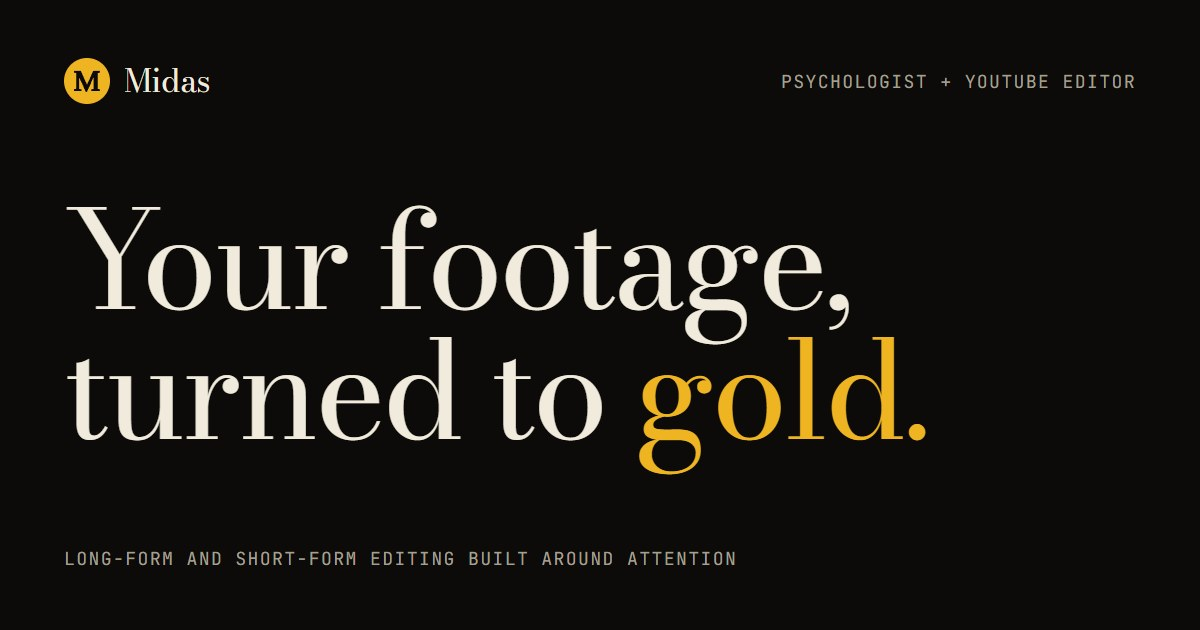
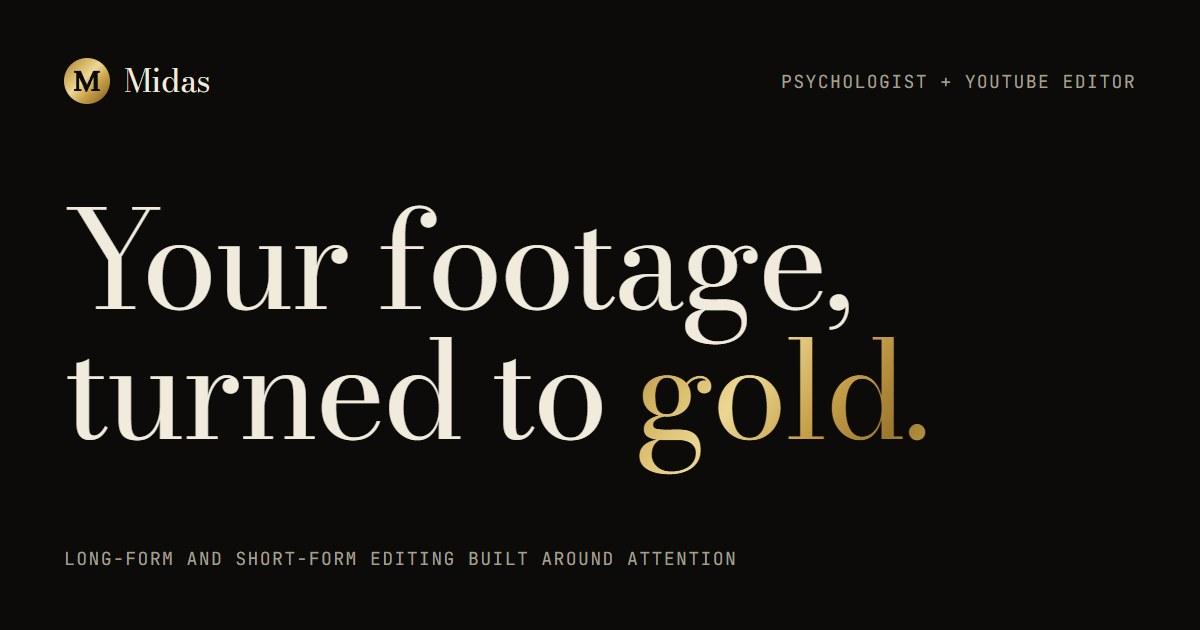
Troca o amarelo por ouro fosco com reflexo e iguala os títulos
Todos os títulos de seção usam o tamanho do título inicial. O Method fica
só com o gráfico e seus rótulos, saem Malcolm Crawford e IMALOSERONG da
lista de clientes, e o dourado passa a ter gradiente metálico.

Claude-Session: https://claude.ai/code/session_019113Mhn7Wb5Ht5tMyM37nv

Changed region(s): [[0.5242, 0.5127, 0.7708, 0.754], [0.0308, 0.0905, 0.0925, 0.181]]

diff --git a/src/styles/global.css b/src/styles/global.css
@@ -5,13 +5,18 @@
     --color-soot: #1a1815;
     --color-lead: #a5a096;
     --color-bone: #f1ebdd;
-    --color-gold: #eeb422;
+    --color-gold: #c9a24b;
     --color-gold-soft: #dcc07a;
     --color-gold-deep: #a88a48;
 
     --font-display: var(--font-midas-display);
     --font-body: var(--font-midas-body);
     --font-mono: var(--font-midas-mono);
+}
+
+/* Ouro fosco com reflexo: luz na diagonal e sombra no lado oposto */
+:root {
+    --gold-metal: linear-gradient(125deg, #a67c2e 0%, #d9bb6c 26%, #ecd793 40%, #c9a24b 60%, #9d772d 80%, #d2b261 100%);
 }
 
 @property --touch-radius {
@@ -55,8 +60,36 @@ body {
     line-height: 0.95;
 }
 
+/* Mesmo tamanho em todos os títulos de seção */
+.title {
+    font-size: 14vw;
+    text-wrap: balance;
+}
+
+@media (min-width: 768px) {
+    .title {
+        font-size: 10vw;
+    }
+}
+
+@media (min-width: 1024px) {
+    .title {
+        font-size: 5.8vw;
+    }
+}
+
 .gold-word {
     color: var(--color-gold);
+    background: var(--gold-metal);
+    -webkit-background-clip: text;
+    background-clip: text;
+    -webkit-text-fill-color: transparent;
+    /* Espaço para o gradiente alcançar as pernas do g e do y */
+    padding-bottom: 0.12em;
+}
+
+.gold-metal {
+    background: var(--gold-metal);
 }
 
 .eyebrow {
@@ -72,7 +105,7 @@ body {
     display: inline-block;
     padding: 0.9rem 1.5rem;
     font-weight: 600;
-    background: var(--color-gold);
+    background: var(--gold-metal);
     color: var(--color-ink);
     transition: background-color 0.2s, color 0.2s;
 }
@@ -182,10 +215,12 @@ body {
 
 #tc-fill {
     width: calc(var(--p) * 100%);
+    background: linear-gradient(to right, #a67c2e, #d9bb6c);
 }
 
 #tc-thumb {
     left: calc(var(--p) * 100%);
+    background: var(--gold-metal);
     transition: scale 0.12s;
 }
 
@@ -209,22 +244,34 @@ body {
     color: var(--color-gold);
 }
 
-/* Fim da página: folha de ouro fosca, sem o amarelo puro */
+/* Fim da página: folha de ouro fosca, com o mesmo reflexo diagonal */
 .gold-leaf {
     position: relative;
-    background:
-        radial-gradient(ellipse 70% 60% at 70% 100%, rgb(255 238 195 / 0.2), transparent),
-        linear-gradient(to bottom, var(--color-gold-deep), #c8aa66);
+    background: linear-gradient(to bottom, var(--color-gold-deep), #bd9d57);
 }
 
-.gold-leaf::before {
+.gold-leaf > * {
+    position: relative;
+    z-index: 1;
+}
+
+.gold-leaf::before,
+.gold-leaf::after {
     content: "";
     position: absolute;
     inset: 0;
+    pointer-events: none;
+    /* Some no topo para não marcar emenda com o degradê anterior */
+    mask-image: linear-gradient(to bottom, transparent, black 35%);
+}
+
+.gold-leaf::before {
+    background: linear-gradient(125deg, transparent 12%, rgb(255 236 180 / 0.34) 36%, transparent 58%, rgb(80 55 15 / 0.24) 80%, rgb(255 236 180 / 0.14) 100%);
+}
+
+.gold-leaf::after {
     background-image: url("../assets/ui/noise.webp");
     opacity: 0.06;
-    pointer-events: none;
-    mask-image: linear-gradient(to bottom, transparent, black 40%);
 }
 
 /* Curva de retenção desenhada conforme a rolagem */
@@ -233,7 +280,7 @@ body {
     stroke-dashoffset: calc(1 - var(--draw, 0));
 }
 
-/* No celular os rótulos ficariam ilegíveis; a lista abaixo explica cada ponto */
+/* No celular os rótulos ficariam ilegíveis; a legenda abaixo do gráfico os substitui */
 @media (max-width: 767px) {
     .curve-labels text {
         display: none;

diff --git a/src/data/site.ts b/src/data/site.ts
@@ -3,8 +3,6 @@ import ward from "../assets/clients/golden-roblox.jpg";
 import sirius from "../assets/clients/client-6.jpg";
 import golden from "../assets/clients/client-5.jpg";
 import muitoHumildee from "../assets/clients/client-2.jpg";
-import malcolm from "../assets/clients/client-3.jpg";
-import imaLoser from "../assets/clients/client-4.webp";
 
 export const contacts = [
   { title: "Email", value: "psique.fabricio@gmail.com", href: "mailto:psique.fabricio@gmail.com?subject=Video%20editing%20project" },
@@ -18,9 +16,4 @@ export const topClients = [
   { name: "Sirius Roblox", reach: "1.53M", unit: "subscribers", work: "Long-form", image: sirius, url: "https://www.youtube.com/@SiriusRobloxFunny" },
   { name: "@muitohumildee", reach: "1.51M", unit: "on Instagram", work: "Short-form", image: muitoHumildee, url: "https://www.instagram.com/muitohumildee/" },
   { name: "Golden Roblox", reach: "470K", unit: "subscribers", work: "Long-form", image: golden, url: "https://www.youtube.com/@GoldenRoblox0" },
-];
-
-export const otherClients = [
-  { name: "Malcolm Crawford", work: "Long-form + short-form", image: malcolm, url: "https://www.youtube.com/@malcolmcrawford_" },
-  { name: "IMALOSERONG", work: "Live content", image: imaLoser, url: "https://kick.com/imaloserong" },
 ];
